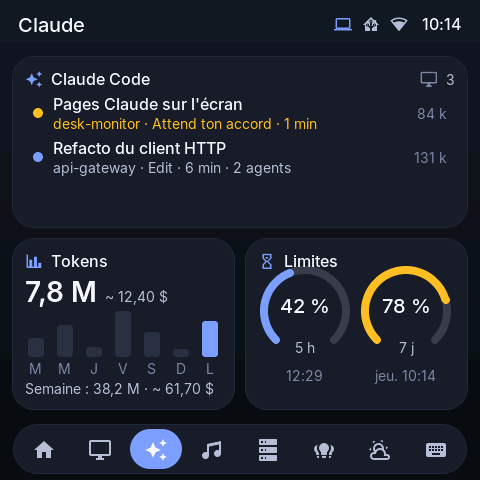
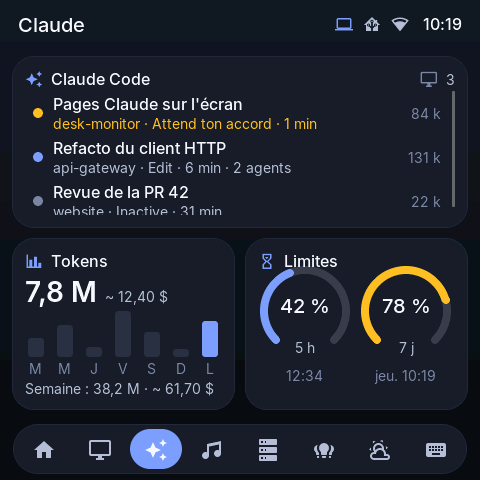
feat(claude): scroll the session list instead of dropping rows
The claude_sessions card only showed as many sessions as its height
allowed, and the smaller cells of the page dock cut it to two. Every
session (up to 6) now gets a row in a vertically scrolling list with a
thin scroll bar; horizontal swipes still change the page.

diff --git a/firmware/core/src/widgets/claude.cpp b/firmware/core/src/widgets/claude.cpp
@@ -151,10 +151,24 @@ class ClaudeSessions : public Widget {
     lv_obj_set_width(empty_, lv_pct(100));
     lv_label_set_long_mode(empty_, LV_LABEL_LONG_WRAP);
 
-    // As many rows as the card height allows
-    const int inner = theme::span_height(spec.h) - 2 * theme::CARD_PAD - 22;
-    rows_count_ = std::clamp(inner / (ROW_H + ROW_GAP), 1, MAX_ROWS);
-    for (int i = 0; i < rows_count_; i++) rows_[i] = make_session_row();
+    // Every session gets a row; the list scrolls vertically when they do not fit the card. Horizontal
+    // drags still go to the page tileview (swipe between pages).
+    list_ = lv_obj_create(root);
+    lv_obj_remove_style_all(list_);
+    lv_obj_set_width(list_, lv_pct(100));
+    lv_obj_set_flex_grow(list_, 1);
+    lv_obj_set_flex_flow(list_, LV_FLEX_FLOW_COLUMN);
+    lv_obj_set_style_pad_row(list_, ROW_GAP, 0);
+    lv_obj_set_style_pad_right(list_, 6, 0);  // room for the scroll bar
+    lv_obj_set_scroll_dir(list_, LV_DIR_VER);
+    lv_obj_set_scrollbar_mode(list_, LV_SCROLLBAR_MODE_AUTO);
+    lv_obj_set_style_width(list_, 3, LV_PART_SCROLLBAR);
+    lv_obj_set_style_radius(list_, 2, LV_PART_SCROLLBAR);
+    lv_obj_set_style_bg_color(list_, lv_color_white(), LV_PART_SCROLLBAR);
+    lv_obj_set_style_bg_opa(list_, 90, LV_PART_SCROLLBAR);
+    lv_obj_set_style_pad_right(list_, 0, LV_PART_SCROLLBAR);
+    lv_obj_remove_flag(list_, LV_OBJ_FLAG_CLICKABLE);
+    for (int i = 0; i < MAX_ROWS; i++) rows_[i] = make_session_row();
 
     ctx.bus.subscribe("pc/claude", [this](const cJSON *) { render(); });
   }
@@ -171,7 +185,7 @@ class ClaudeSessions : public Widget {
 
   Row make_session_row() {
     Row row;
-    row.box = make_row(root, 10);
+    row.box = make_row(list_, 10);
     lv_obj_set_height(row.box, ROW_H);
     lv_obj_set_style_radius(row.box, 14, 0);
     lv_obj_set_style_pad_hor(row.box, 8, 0);
@@ -212,7 +226,7 @@ class ClaudeSessions : public Widget {
       ctx_.app.show_claude_asks();
       return;
     }
-    for (int i = 0; i < rows_count_; i++) {
+    for (int i = 0; i < MAX_ROWS; i++) {
       if (rows_[i].box == box && !rows_[i].id.empty()) ctx_.app.show_claude_detail("session", rows_[i].id);
     }
   }
@@ -229,7 +243,7 @@ class ClaudeSessions : public Widget {
     set_hidden(empty_, total > 0);
     lv_label_set_text(empty_, online ? "Aucune session en cours" : "PC déconnecté");
 
-    for (int i = 0; i < rows_count_; i++) {
+    for (int i = 0; i < MAX_ROWS; i++) {
       Row &row = rows_[i];
       const cJSON *session = i < total ? cJSON_GetArrayItem(sessions, i) : nullptr;
       set_hidden(row.box, !session);
@@ -275,7 +289,7 @@ class ClaudeSessions : public Widget {
   WidgetContext &ctx_;
   lv_obj_t *icon_ = nullptr, *desktop_ = nullptr, *count_ = nullptr, *empty_ = nullptr;
   Row rows_[MAX_ROWS] = {};
-  int rows_count_ = 0;
+  lv_obj_t *list_ = nullptr;  // scrollable column of the session rows
 };
 
 // ── claude_usage ─────────────────────────────────────────────────────────────
